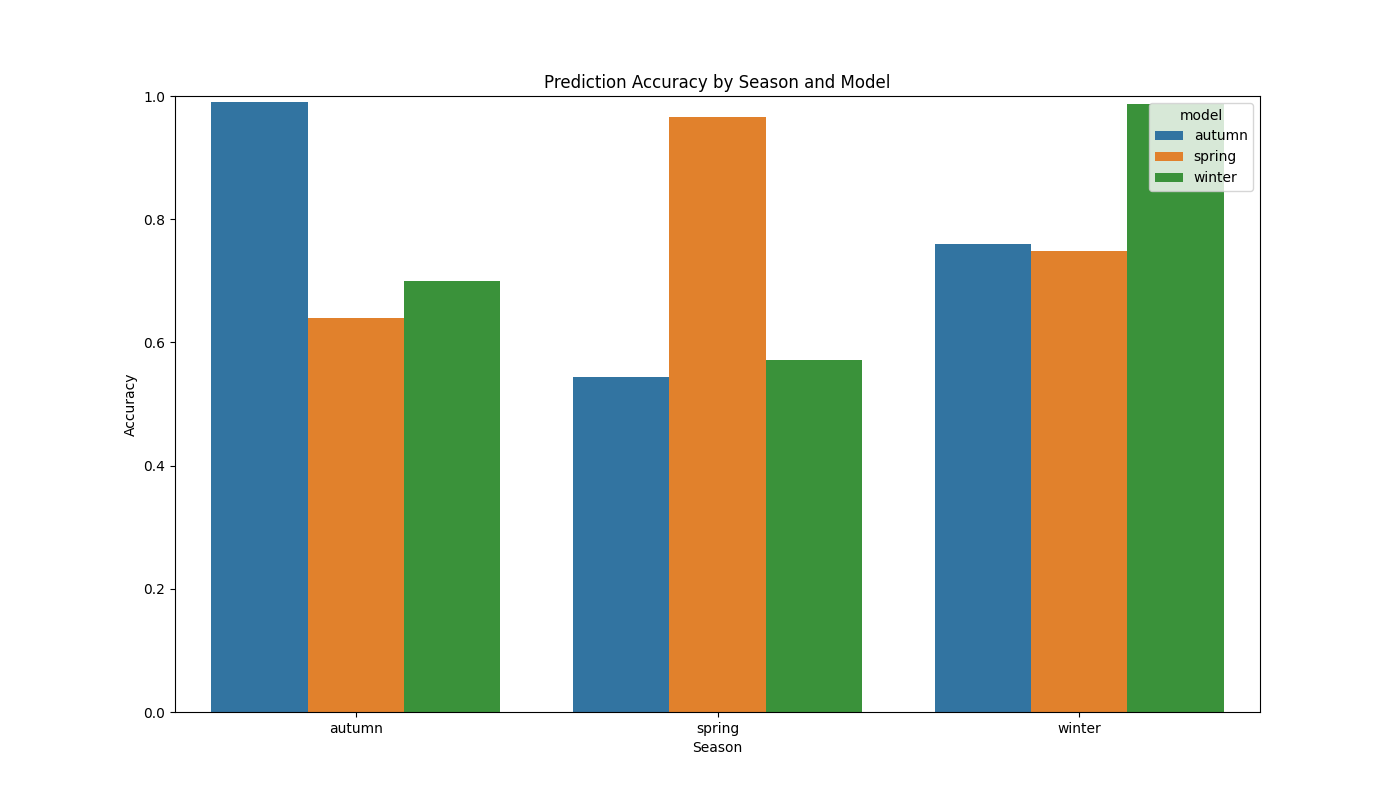
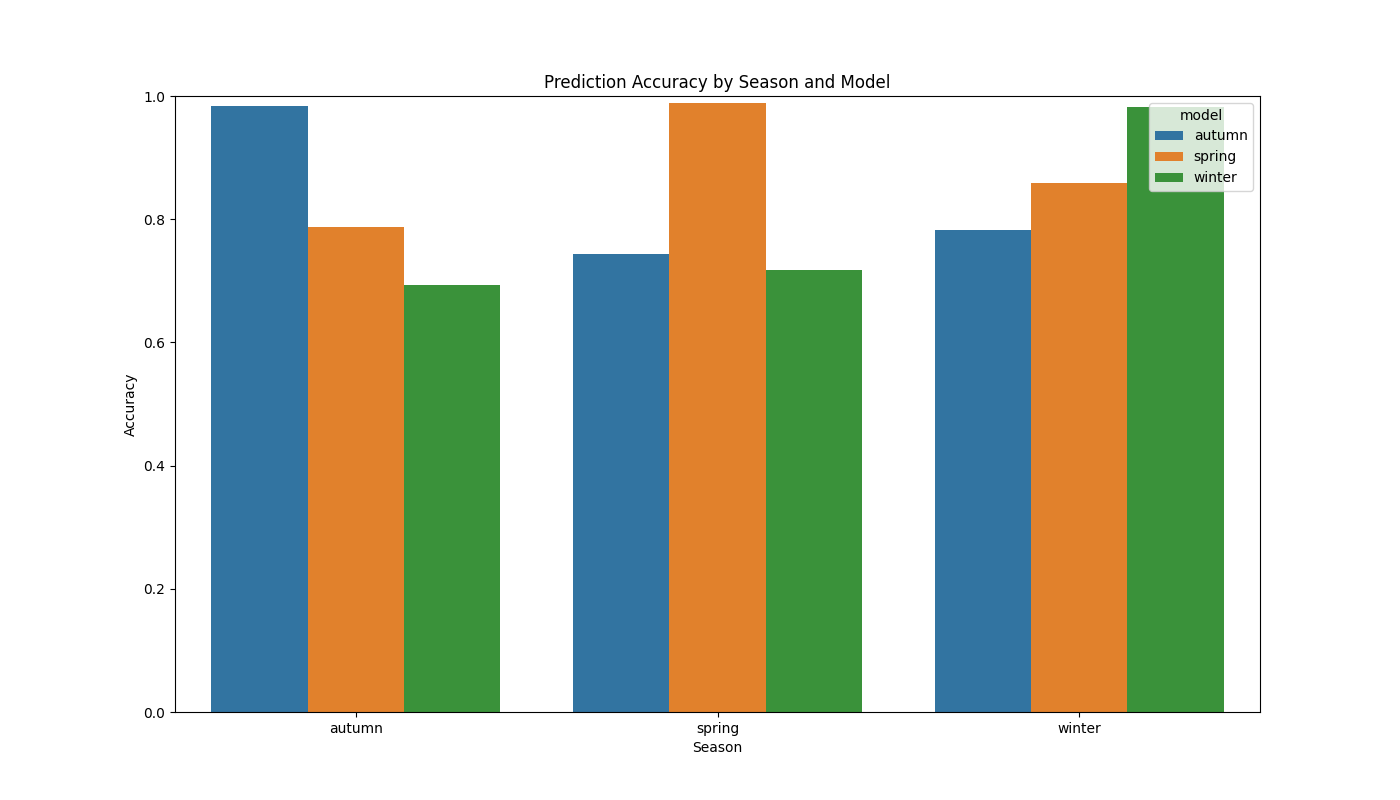
all data

diff --git a/train_all.py b/train_all.py
@@ -1,0 +1,184 @@
+import pandas as pd
+import torch
+from PIL import Image
+from torchvision import transforms, models
+from torchvision.models import ResNet50_Weights
+import torch.nn as nn
+import torch.optim as optim
+from sklearn.model_selection import train_test_split
+from seasonal_data_split import balanced_winter, balanced_spring, balanced_autumn
+import matplotlib.pyplot as plt
+
+# Define the custom dataset class
+class ScreenDataset(torch.utils.data.Dataset):
+    def __init__(self, filenames, labels, xmin=-1, xmax=-1, ymin=-1, ymax=-1):
+        self.preprocess = transforms.Compose([
+            transforms.Resize((224, 224)),
+            transforms.ToTensor(),
+            transforms.Normalize(mean=[0.485, 0.456, 0.406], std=[0.229, 0.224, 0.225]),
+        ])
+        self.xmin = xmin
+        self.xmax = xmax
+        self.ymin = ymin
+        self.ymax = ymax
+        self.filenames = filenames
+        self.labels = labels
+
+    def __len__(self):
+        return len(self.filenames)
+
+    def __getitem__(self, item):
+        img = Image.open(self.filenames[item]).convert('RGB')
+        if self.xmin > 0 and self.xmax > 0 and self.ymin > 0 and self.ymax > 0:
+            img = img.crop((self.xmin, self.ymin, self.xmax, self.ymax))
+        label = self.labels[item]
+        return self.preprocess(img), label
+
+# Function to train the model
+def train_model(model, dataloaders, criterion, optimizer, scheduler=None, num_epochs=25, min_delta=0.01, patience=5):
+    device = torch.device("cuda:2" if torch.cuda.is_available() else
+                          ("mps" if torch.backends.mps.is_available() else "cpu"))
+    print(f"Using device: {device}")
+    model.to(device)
+    best_model_wts = None
+    best_acc = 0.0
+    epochs_no_improve = 0
+
+    train_losses = []
+    train_accuracies = []
+    val_losses = []
+    val_accuracies = []
+
+    for epoch in range(num_epochs):
+        print(f'Epoch {epoch}/{num_epochs - 1}')
+        print('-' * 10)
+
+        for phase in ['train', 'val']:
+            if phase == 'train':
+                model.train()
+            else:
+                model.eval()
+
+            running_loss = 0.0
+            running_corrects = 0
+
+            for inputs, labels in dataloaders[phase]:
+                inputs = inputs.to(device)
+                labels = labels.to(device)
+
+                optimizer.zero_grad()
+
+                with torch.set_grad_enabled(phase == 'train'):
+                    outputs = model(inputs)
+                    _, preds = torch.max(outputs, 1)
+                    loss = criterion(outputs, labels)
+
+                    if phase == 'train':
+                        loss.backward()
+                        optimizer.step()
+
+                running_loss += loss.item() * inputs.size(0)
+                running_corrects += torch.sum(preds == labels.data)
+
+            epoch_loss = running_loss / len(dataloaders[phase].dataset)
+            epoch_acc = running_corrects.float() / len(dataloaders[phase].dataset)
+
+            print(f'{phase} Loss: {epoch_loss:.4f} Acc: {epoch_acc:.4f}')
+
+            if phase == 'train':
+                train_losses.append(epoch_loss)
+                train_accuracies.append(epoch_acc.cpu().numpy())  # Convert to CPU and then to numpy
+                if scheduler:
+                    scheduler.step()
+            else:
+                val_losses.append(epoch_loss)
+                val_accuracies.append(epoch_acc.cpu().numpy())  # Convert to CPU and then to numpy
+                # Early stopping
+                if epoch_acc - best_acc > min_delta:
+                    best_acc = epoch_acc
+                    best_model_wts = model.state_dict()
+                    epochs_no_improve = 0
+                else:
+                    epochs_no_improve += 1
+
+                if epochs_no_improve == patience:
+                    print("Early stopping")
+                    if best_model_wts is not None:
+                        model.load_state_dict(best_model_wts)
+                    return model, (train_losses, val_losses, train_accuracies, val_accuracies)
+
+    print(f'Best val Acc: {best_acc:.4f}')
+    if best_model_wts is not None:
+        model.load_state_dict(best_model_wts)
+    return model, (train_losses, val_losses, train_accuracies, val_accuracies)
+
+# Combine the data from winter, spring, and autumn
+combined_data = pd.concat([balanced_spring, balanced_autumn, balanced_winter], ignore_index=True)
+
+# Extract file paths and labels
+image_filenames = combined_data['file_path'].tolist()
+labels = combined_data['label'].apply(lambda x: 1 if x == 'blocked' else 0).tolist()
+
+# Split the dataset
+train_filenames, val_filenames, train_labels, val_labels = train_test_split(image_filenames, labels, test_size=0.2, random_state=42)
+
+# Coordinates for cropping (change if needed)
+xmin, xmax, ymin, ymax = -1, -1, -1, -1
+
+# Create datasets
+train_dataset = ScreenDataset(train_filenames, train_labels, xmin, xmax, ymin, ymax)
+val_dataset = ScreenDataset(val_filenames, val_labels, xmin, xmax, ymin, ymax)
+
+# Create dataloaders
+batch_size = 64
+dataloaders = {
+    'train': torch.utils.data.DataLoader(train_dataset, batch_size=batch_size, shuffle=True, num_workers=0),
+    'val': torch.utils.data.DataLoader(val_dataset, batch_size=batch_size, shuffle=True, num_workers=0)
+}
+
+# Load ResNet50 model
+print("Loading ResNet50 model...")
+model = models.resnet50(weights=ResNet50_Weights.IMAGENET1K_V1)
+
+# Modify the final layer for binary classification
+num_ftrs = model.fc.in_features
+model.fc = nn.Linear(num_ftrs, 2)
+
+# Define loss function and optimizer
+criterion = nn.CrossEntropyLoss()
+optimizer = optim.Adam(model.parameters(), lr=0.001)
+
+# Train the model
+model, history = train_model(model, dataloaders, criterion, optimizer, num_epochs=25, min_delta=0.01, patience=5)
+
+# Plot training graph
+train_losses, val_losses, train_accuracies, val_accuracies = history
+
+plt.figure(figsize=(12, 4))
+plt.subplot(1, 2, 1)
+plt.plot(train_losses, label='Training Loss')
+plt.plot(val_losses, label='Validation Loss')
+plt.xlabel('Epoch')
+plt.ylabel('Loss')
+plt.title('Training and Validation Loss')
+plt.legend()
+
+plt.subplot(1, 2, 2)
+plt.plot(train_accuracies, label='Training Accuracy')
+plt.plot(val_accuracies, label='Validation Accuracy')
+plt.xlabel('Epoch')
+plt.ylabel('Accuracy')
+plt.title('Training and Validation Accuracy')
+plt.legend()
+
+plt.show()
+
+# Confirmation prompt before saving the model
+save_model = input("Do you want to save the model? (yes/no): ").strip().lower()
+if save_model == 'yes':
+    # Save the model
+    model_filepath = 'weights/combined_season_classifier.pth'  # Change name for saving
+    torch.save(model.state_dict(), model_filepath)
+    print(f"Model saved to {model_filepath}")
+else:
+    print("Model not saved.")

diff --git a/classification_network.py b/classification_network.py
@@ -32,8 +32,8 @@ class ScreenDataset(torch.utils.data.Dataset):
 
 if __name__ == "__main__":
     # Select the season
-    season = "spring"  # Change this to "winter", "spring", "summer", or "autumn"
-    model_season = "autumn"
+    season = "autumn"  # Change this to "winter", "spring", "summer", or "autumn"
+    model_season = "spring"
 
     model_filepath = f'weights/{model_season}_classifier.pth'
 
@@ -84,4 +84,4 @@ if __name__ == "__main__":
             dataset.loc[dataset['file_path'] == filenames[i], 'pred'] = prediction
 
     # Save dataframe with predictions and original labels
-    dataset.to_csv(f'csvs/{season}_pred_{model_season}_model.csv', index=False)
+    dataset.to_csv(f'csvs/{season}_pred_{model_season}_model_full.csv', index=False)

diff --git a/seasonal_plot.py b/seasonal_plot.py
@@ -4,7 +4,7 @@ import seaborn as sns
 import glob
 
 # File paths
-file_paths = glob.glob('csvs/*_pred_*.csv')
+file_paths = glob.glob('csvs/*_pred_*_full.csv')
 
 # Create an empty list to hold dataframes
 dataframes = []
